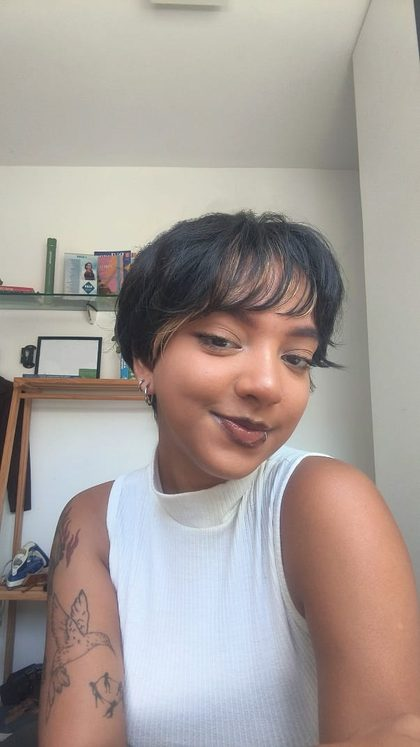
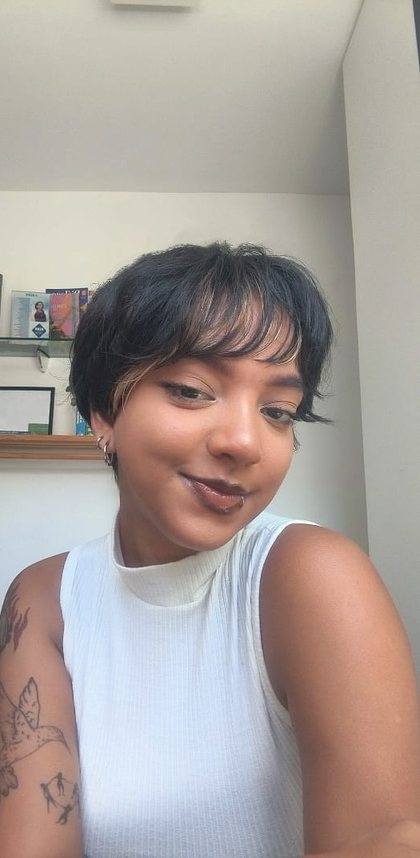
Troca a foto da seção Sobre mim e corrige a pontuação do parágrafo
A foto nova é mais estreita que a anterior (525x1072 contra 603x1072), e
o object-position que enquadrava a antiga deixava teto demais acima da
cabeça. Reancorado para os olhos ficarem por volta de um terço da faixa
visível do recorte 4:5.

Remove também a vírgula depois de "avaliação psicológica" no primeiro
parágrafo, no HTML e no dicionário. O inglês não tem o equivalente: ali a
frase termina em ponto.

diff --git a/index.html b/index.html
@@ -42,7 +42,7 @@
 <link rel="preconnect" href="https://fonts.gstatic.com" crossorigin>
 <link rel="preload" as="image" href="assets/coracao-creme.png">
 <link href="https://fonts.googleapis.com/css2?family=DM+Serif+Display:ital@0;1&family=Manrope:wght@300;400;500;600;700&display=swap" rel="stylesheet">
-<link rel="stylesheet" href="styles.css?v=11">
+<link rel="stylesheet" href="styles.css?v=12">
 
 <noscript><style>
   /* Sem JavaScript: nada fica escondido. */
@@ -195,11 +195,11 @@
 
     <figure class="foto reveal">
       <img src="assets/isabella.jpg"
-           srcset="assets/isabella-small.jpg 420w, assets/isabella.jpg 603w"
+           srcset="assets/isabella-small.jpg 420w, assets/isabella.jpg 525w"
            sizes="(max-width: 900px) 86vw, 38vw"
            data-i18n-attr="alt:sobre.alt"
            alt="Retrato de Isabella de Luna, psicóloga."
-           width="603" height="1072" loading="lazy" decoding="async">
+           width="525" height="1072" loading="lazy" decoding="async">
     </figure>
 
     <div class="sobre__texto">
@@ -211,7 +211,7 @@
       <div class="prosa reveal" style="--atraso:140ms">
         <p data-i18n="sobre.p1">
           Sou psicóloga clínica e educacional formada pelo Centro Universitário
-          UniFAFIRE, especialista em avaliação psicológica, e ofereço atendimentos
+          UniFAFIRE, especialista em avaliação psicológica e ofereço atendimentos
           para adultos, adolescentes e crianças a partir dos 3 anos de idade.
         </p>
         <p data-i18n="sobre.p2">
@@ -758,6 +758,6 @@
 </svg>
 
 <script src="script.js?v=4" defer></script>
-<script src="i18n.js?v=2" defer></script>
+<script src="i18n.js?v=3" defer></script>
 </body>
 </html>

diff --git a/i18n.js b/i18n.js
@@ -58,7 +58,7 @@ const I18N = {
     "sobre.alt": "Retrato de Isabella de Luna, psicóloga.",
     "sobre.rotulo": "Sobre mim",
     "sobre.titulo": "Olá, me chamo Isabella de Luna.",
-    "sobre.p1": "Sou psicóloga clínica e educacional formada pelo Centro Universitário UniFAFIRE, especialista em avaliação psicológica, e ofereço atendimentos para adultos, adolescentes e crianças a partir dos 3 anos de idade.",
+    "sobre.p1": "Sou psicóloga clínica e educacional formada pelo Centro Universitário UniFAFIRE, especialista em avaliação psicológica e ofereço atendimentos para adultos, adolescentes e crianças a partir dos 3 anos de idade.",
     "sobre.p2": "Sigo a abordagem da Gestalt-terapia, que me permite olhar para cada pessoa de forma singular e trazer o foco para o que ocorre no hoje, aqui e agora.",
     "sobre.p3": "Estar atenta aos impactos sociais é um compromisso indispensável ao meu fazer. Por isso, o aprofundamento nas temáticas raciais e na vivência da comunidade LGBTQIAP+ é uma das bases da minha clínica.",
     "sobre.cta": "Conhecer meu trabalho <span class=\"seta\" aria-hidden=\"true\">→</span>",

diff --git a/politica-de-privacidade.html b/politica-de-privacidade.html
@@ -32,7 +32,7 @@
 <link rel="preconnect" href="https://fonts.googleapis.com">
 <link rel="preconnect" href="https://fonts.gstatic.com" crossorigin>
 <link href="https://fonts.googleapis.com/css2?family=DM+Serif+Display&family=Manrope:wght@300;400;500;600&display=swap" rel="stylesheet">
-<link rel="stylesheet" href="styles.css?v=11">
+<link rel="stylesheet" href="styles.css?v=12">
 
 <style>
   .documento { padding-block: calc(var(--altura-header) + 4rem) clamp(4rem, 8vw, 6rem); }
@@ -236,6 +236,6 @@
 </svg>
 
 <script src="script.js?v=4" defer></script>
-<script src="i18n.js?v=2" defer></script>
+<script src="i18n.js?v=3" defer></script>
 </body>
 </html>

diff --git a/styles.css b/styles.css
@@ -641,7 +641,10 @@ body::after {
   border-radius: .375rem;
   object-fit: cover;
   aspect-ratio: 4 / 5;
-  object-position: 50% 28%;
+  /* a foto é bem mais alta que o quadro 4:5, então o recorte mostra ~61%
+     da altura. Este ancoramento deixa os olhos por volta de um terço da
+     faixa visível, que é o equilíbrio usual de um retrato. */
+  object-position: 50% 60%;
 }
 .foto::after {
   content: "";
